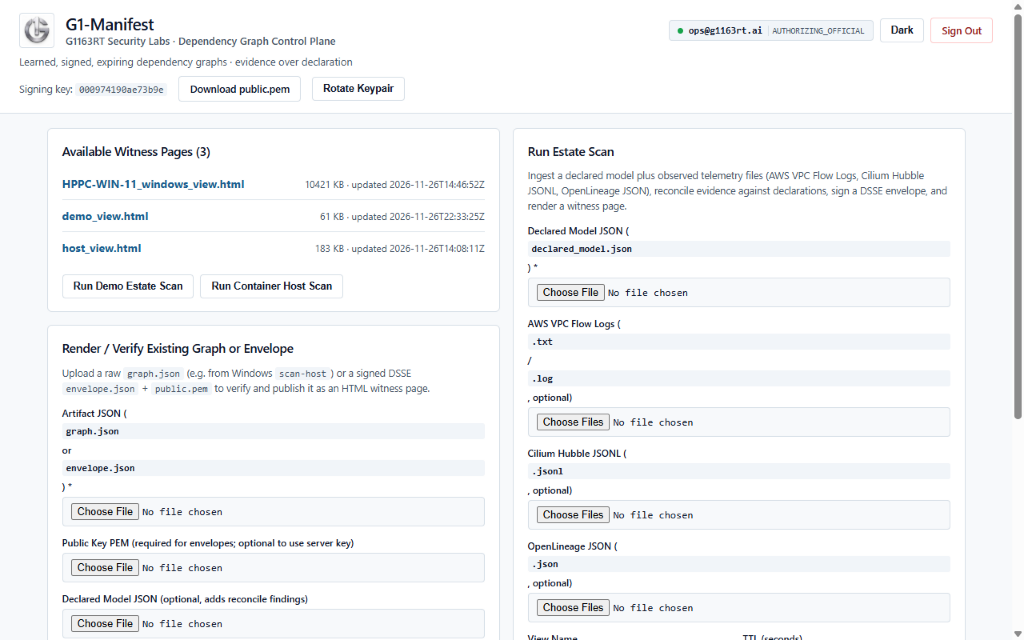
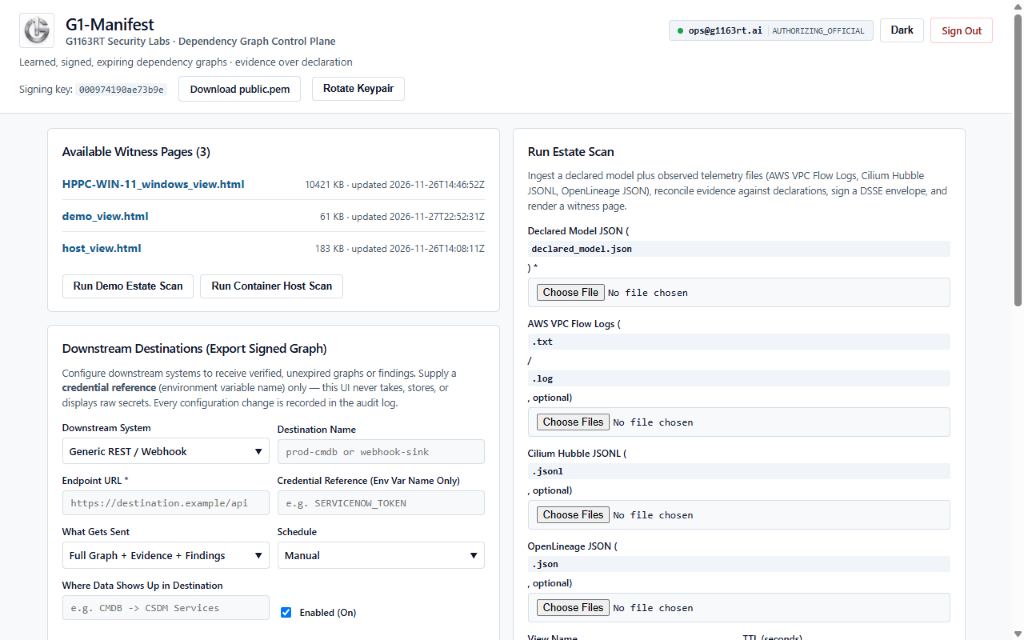
Update GitHub README screenshots with Downstream Destinations and Live Ingestion dropdowns

Changed region(s): [[0.0625, 0.5312, 0.4688, 1.0], [0.9688, 0.4688, 1.0, 0.6562], [0.4375, 0.3125, 0.4688, 0.3438]]

diff --git a/README.md b/README.md
@@ -73,6 +73,20 @@ Every containment and shielding system lives or dies on one question: *what does
   <img src="docs/assets/screenshots/04-witness-evidence-table.png" alt="G1-Manifest Static Edge Evidence Table and Node Summary" width="100%" />
 </p>
 
+### 5. Downstream Destinations Export Panel (All 13 Vendors & Audited Config)
+> Configure per-destination outbound exports across **CMDB / ITSM** (ServiceNow IRE/CSDM, BMC Helix, JSM Assets, Ivanti Neurons, Device42, Freshservice), **Network & Observability Maps** (Cisco Catalyst Center, Datadog, Dynatrace, SolarWinds NPM), and **Graph & Catalog** (Neo4j, Backstage, Generic REST/Webhook) — with credential references only (no raw secrets), `full` / `delta` / `findings_only` modes, fail-closed verification, and an audited configuration log.
+
+<p align="center">
+  <img src="docs/assets/screenshots/05-downstream-destinations.png" alt="G1-Manifest Downstream Destinations Dropdown and Export Configuration" width="100%" />
+</p>
+
+### 6. Live Telemetry Ingestion & 1-Click Workstation Scanners
+> Configure read-only live collectors directly in the UI (`NetFlow v9 / IPFIX`, `sFlow v5`, `OpenLineage HTTP`, `AWS S3 / CloudWatch`, `Azure NSG`, `GCP VPC`, `Cisco Catalyst / SNA`, and read-only `ServiceNow CMDB`), run on-demand cycles, or download 1-click Windows (`.cmd`) and macOS (`.command`) workstation scanners.
+
+<p align="center">
+  <img src="docs/assets/screenshots/06-live-telemetry-ingestion.png" alt="G1-Manifest Live Telemetry Ingestion Dropdown and Workstation Scanners" width="100%" />
+</p>
+
 ---
 
 ## Repository Layout
